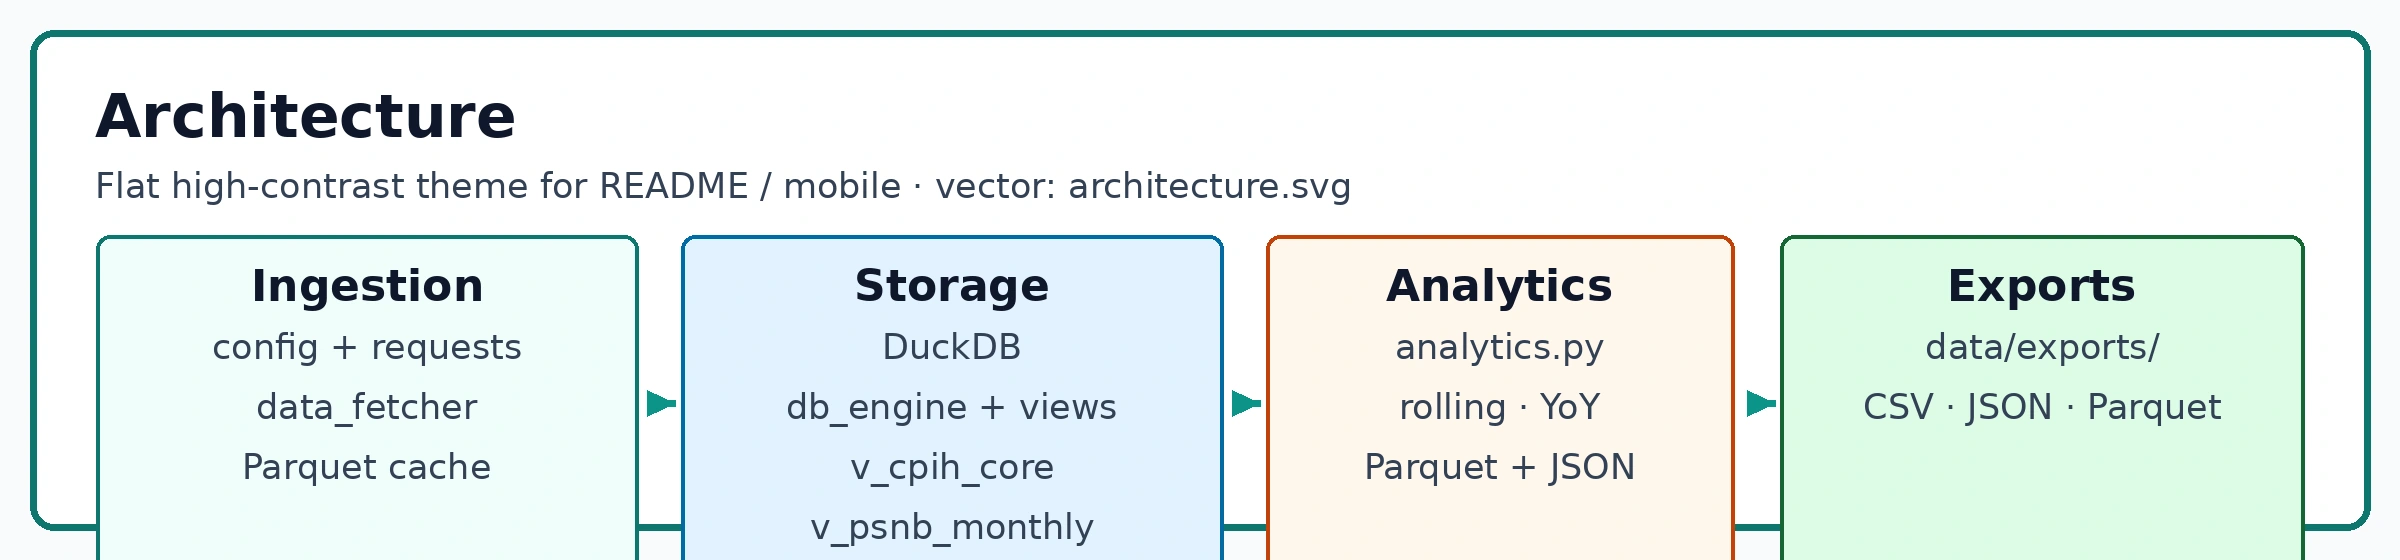
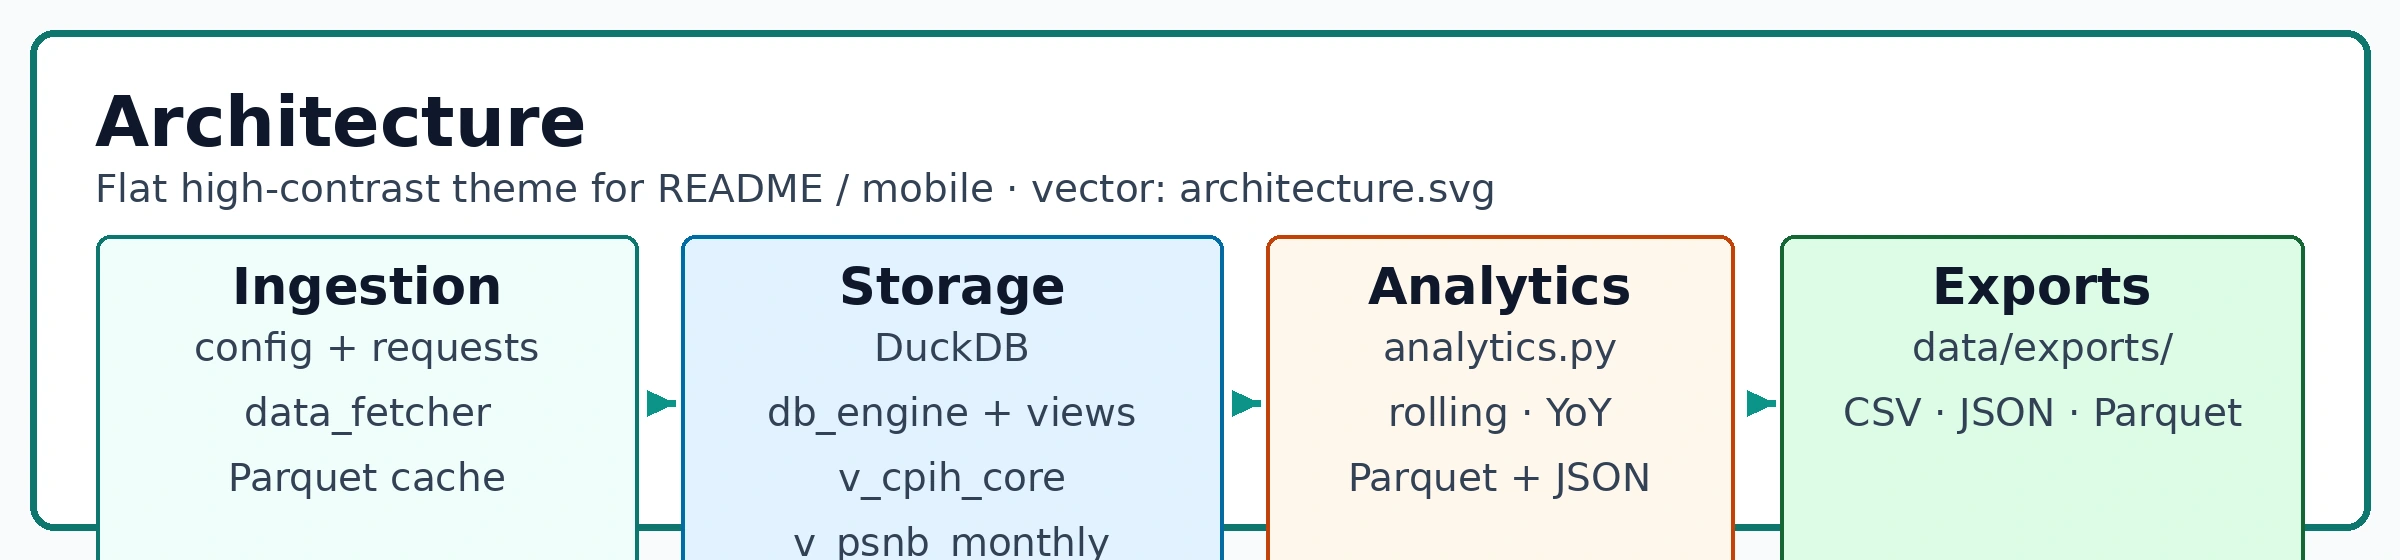
docs: full-width README images and branch-correct image links
- Use width="100%" so hero and architecture use the README column on mobile.
- Wrap PNGs in <a href="./…"> so GitHub opens the file on the current ref, not default branch.
- Slightly larger type in generated assets and matching architecture.svg.

diff --git a/tools/regen_readme_images.py b/tools/regen_readme_images.py
@@ -66,10 +66,10 @@ def render_hero(width: int = 3000) -> Image.Image:
     pad = int(width * 0.035)
     title_h = int(height * 0.34)
     f_title, f_sub, f_pill, _ = _fonts(
-        max(52, width // 28),
-        max(26, width // 62),
-        max(22, width // 72),
-        max(18, width // 85),
+        max(56, width // 24),
+        max(28, width // 54),
+        max(24, width // 62),
+        max(20, width // 78),
     )
 
     # Title strip — solid teal for maximum contrast
@@ -135,13 +135,13 @@ def render_architecture(width: int = 2400) -> Image.Image:
 
     try:
         f_h = ImageFont.truetype(
-            "/usr/share/fonts/truetype/dejavu/DejaVuSans-Bold.ttf", max(28, int(26 * s))
+            "/usr/share/fonts/truetype/dejavu/DejaVuSans-Bold.ttf", max(34, int(30 * s))
         )
         f_b = ImageFont.truetype(
-            "/usr/share/fonts/truetype/dejavu/DejaVuSans-Bold.ttf", max(22, int(19 * s))
+            "/usr/share/fonts/truetype/dejavu/DejaVuSans-Bold.ttf", max(26, int(22 * s))
         )
         f_t = ImageFont.truetype(
-            "/usr/share/fonts/truetype/dejavu/DejaVuSans.ttf", max(17, int(15 * s))
+            "/usr/share/fonts/truetype/dejavu/DejaVuSans.ttf", max(20, int(17 * s))
         )
     except OSError:
         f_h = f_b = f_t = ImageFont.load_default()
@@ -180,7 +180,7 @@ def render_architecture(width: int = 2400) -> Image.Image:
         ly = y1 + int(48 * s)
         for line in lines:
             d.text((cx, ly), line, fill=TEXT_MUTED, font=f_t, anchor="mm")
-            ly += int(26 * s)
+            ly += int(28 * s)
 
     # Arrows between stages
     def arrow(ax1: float, ax2: float, y: float) -> None:
@@ -222,9 +222,8 @@ def main() -> None:
     hw, hh = hero.size
     aw, ah = arch.size
     print()
-    print("Suggested README <img> half-size (Retina):")
-    print(f"  hero: width={hw // 2} height={hh // 2}")
-    print(f"  arch: width={aw // 2} height={ah // 2}")
+    print("Suggested README: use width=\"100%\" on <img> for full column width; files are")
+    print(f"  hero {hw}x{hh}px, arch {aw}x{ah}px (~2x of typical CSS width for sharpness).")
 
 
 if __name__ == "__main__":

diff --git a/README.md b/README.md
@@ -20,14 +20,16 @@
 </p>
 
 <p align="center">
-  <img
-    src="./hero.png"
-    alt="UK Macro Analytics Engine banner"
-    width="1500"
-    height="500"
-    decoding="async"
-    fetchpriority="high"
-  />
+  <!-- Explicit ./ link keeps “open image” on the same branch/PR; bare <img> often links to default branch. -->
+  <a href="./hero.png" title="hero.png (this branch)">
+    <img
+      src="./hero.png"
+      alt="UK Macro Analytics Engine banner"
+      width="100%"
+      decoding="async"
+      fetchpriority="high"
+    />
+  </a>
 </p>
 
 > **What this is** — A **Python 3.11+** pipeline that downloads **UK open macro** CSVs from the ONS, **validates** structure, caches **Parquet**, loads **DuckDB**, runs **SQL analytics** (rolling averages, YoY inflation, fiscal series), and serves a **Streamlit** portfolio dashboard with optional static/Vercel landing page.
@@ -73,14 +75,15 @@
 </pre>
 
 <p align="center">
-  <img
-    src="./architecture.png"
-    alt="Architecture diagram: Ingestion, DuckDB, Analytics, Exports"
-    width="1200"
-    height="280"
-    loading="lazy"
-    decoding="async"
-  />
+  <a href="./architecture.png" title="architecture.png (this branch)">
+    <img
+      src="./architecture.png"
+      alt="Architecture diagram: Ingestion, DuckDB, Analytics, Exports"
+      width="100%"
+      loading="lazy"
+      decoding="async"
+    />
+  </a>
 </p>
 
 <p align="center"><sub>PNG bitmap for README (<code>python3 tools/regen_readme_images.py</code> also writes WebP); <strong>vector</strong>: <a href="./architecture.svg">architecture.svg</a> · <strong>Mermaid source</strong> (desktop): <a href="./docs/architecture.mmd">docs/architecture.mmd</a></sub></p>
@@ -220,14 +223,14 @@ See [**CONTRIBUTING.md**](./CONTRIBUTING.md).
 
 ## Hero & diagram assets (HiDPI)
 
-Images use **~2×** pixel width vs displayed `width` for sharp Retina rendering. **WebP** first, **PNG** fallback.
+Bitmaps are exported **wide**; in the README they use **`width="100%"`** so they use the full README column on mobile. **PNG** is what the README loads; the script also writes **WebP** beside it if you want to use `<picture>` elsewhere.
 
 ```bash
 pip install pillow
 python3 tools/regen_readme_images.py
 ```
 
-Optional master: `tools/source/hero.png`. Vector slides: [`architecture.svg`](./architecture.svg).
+Wrap README images in `<a href="./hero.png">` if you want taps on GitHub to open the file **on the current branch** (bare `<img>` links are often tied to the default branch). Vector: [`architecture.svg`](./architecture.svg).
 
 ---
 
